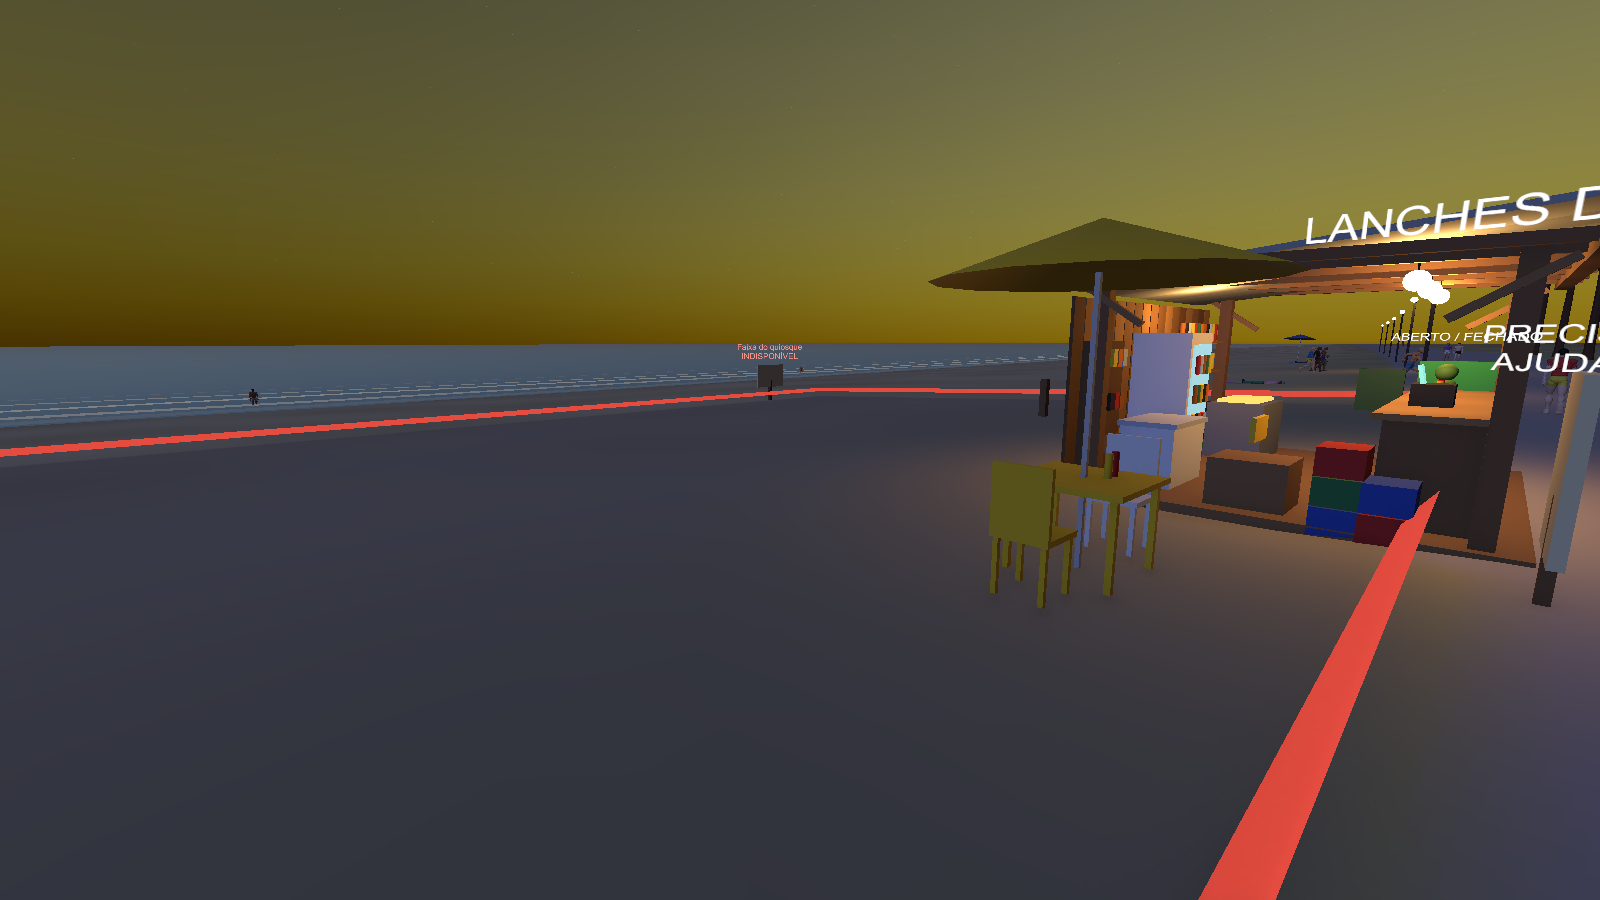
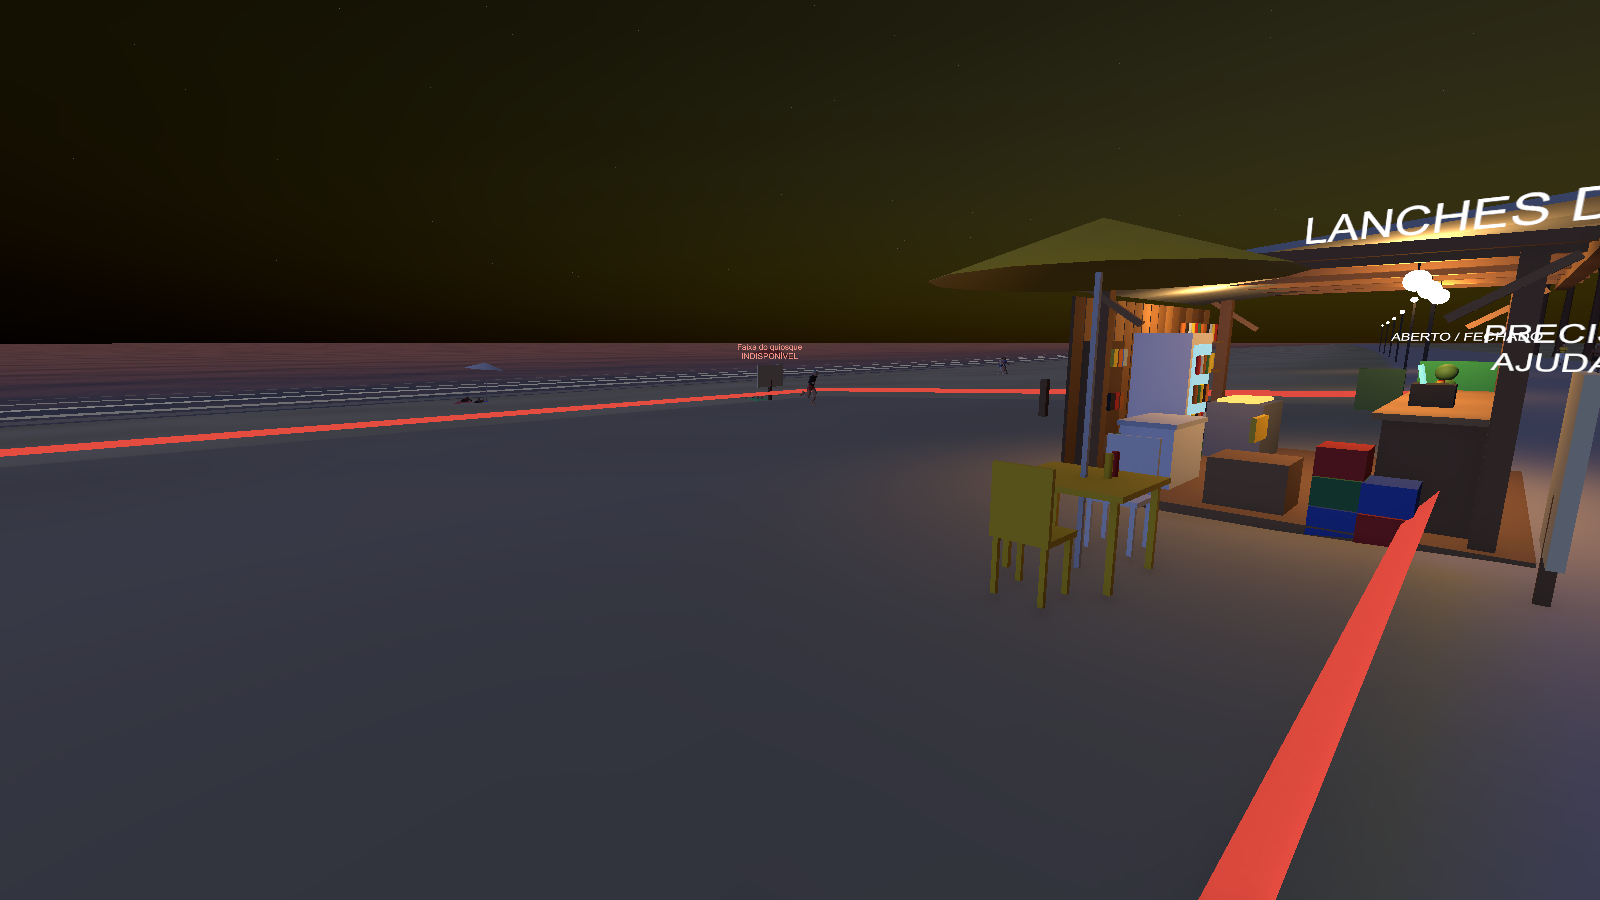
Phase 02: water shader for the sea (depth colour, ripples, Fresnel, glitter) and night sky without the yellow dusk glow

diff --git a/FacilityOps/Assets/_Game/Scripts/Resort/Site/ResortSite.cs b/FacilityOps/Assets/_Game/Scripts/Resort/Site/ResortSite.cs
@@ -236,18 +236,58 @@ namespace ResortAurora.Site
             return false;
         }
 
+        /// <summary>Seaward distance (m) of each row of the water surface from the local waterline; the first row hides under the beach.</summary>
+        static readonly float[] SeaRows = { -30f, 0f, 3f, 8f, 16f, 30f, 55f, 95f, 160f, 260f, 420f, 700f, 1100f, 1500f };
+
         GameObject BuildSea()
         {
-            var go = GameObject.CreatePrimitive(PrimitiveType.Plane);
-            go.name = "Sea";
-            Destroy(go.GetComponent<Collider>());
-            go.transform.localScale = new Vector3((Data.size.x + 1200f) / 10f, 1f, 90f);                 // open sea from 550 m seaward of the site to 350 m inland (the terrain hides the rest; the waterline wanders with the bays)
-            go.transform.localPosition = new Vector3(Data.size.x * 0.5f, Data.seaLevel, -100f);
-            var m = new Material(Shader.Find("Universal Render Pipeline/Lit")) { name = "BairroSea" };
-            m.SetColor("_BaseColor", new Color(0.05f, 0.35f, 0.45f, 1f));
-            m.SetFloat("_Smoothness", 0.92f);
-            go.GetComponent<MeshRenderer>().sharedMaterial = m;
-            return go;
+            var root = new GameObject("Sea");
+            // fallback sheet (flat, deep colour) under the real surface, so a lagoon or a bay that the waterline scan skips never shows the void
+            var plane = GameObject.CreatePrimitive(PrimitiveType.Plane);
+            plane.name = "SeaBase"; plane.transform.SetParent(root.transform, false);
+            Destroy(plane.GetComponent<Collider>());
+            plane.transform.localScale = new Vector3((Data.size.x + 3200f) / 10f, 1f, 90f);
+            plane.transform.localPosition = new Vector3(Data.size.x * 0.5f, Data.seaLevel - 0.06f, -100f);
+            var baseMat = new Material(Shader.Find("Universal Render Pipeline/Lit")) { name = "BairroSeaBase" };
+            baseMat.SetColor("_BaseColor", new Color(0.03f, 0.22f, 0.32f, 1f));
+            baseMat.SetFloat("_Smoothness", 0.5f);
+            plane.GetComponent<MeshRenderer>().sharedMaterial = baseMat;
+
+            // the surface: columns along the coast, rows by distance from the waterline (colour = shallowness and opacity per vertex)
+            var shader = Shader.Find("ResortAurora/Sea");
+            if (shader == null) return root;
+            const float colStep = 8f;
+            float x0 = -1500f, x1 = Data.size.x + 1500f;
+            int cols = Mathf.CeilToInt((x1 - x0) / colStep) + 1, rows = SeaRows.Length;
+            var verts = new Vector3[cols * rows]; var colors = new Color[cols * rows]; var tris = new int[(cols - 1) * (rows - 1) * 6];
+            float y = Data.seaLevel;
+            for (int i = 0; i < cols; i++)
+            {
+                float x = x0 + i * colStep, shore = WaterlineZ(Mathf.Clamp(x, 0f, Data.size.x));
+                for (int r = 0; r < rows; r++)
+                {
+                    float d = SeaRows[r];
+                    verts[i * rows + r] = new Vector3(x, y, shore - d);
+                    float shallow = 1f - Mathf.SmoothStep(0f, 1f, Mathf.Clamp01(d / 130f));
+                    float opacity = Mathf.Lerp(0.5f, 1f, Mathf.SmoothStep(0f, 1f, Mathf.Clamp01(d / 22f)));
+                    colors[i * rows + r] = new Color(shallow, opacity, 0f, 1f);
+                }
+            }
+            int k = 0;
+            for (int i = 0; i < cols - 1; i++)
+                for (int r = 0; r < rows - 1; r++)
+                {
+                    int a = i * rows + r, b = a + 1, c = a + rows, e = c + 1;                  // winding is irrelevant: the shader is double-sided
+                    tris[k++] = a; tris[k++] = b; tris[k++] = c; tris[k++] = c; tris[k++] = b; tris[k++] = e;
+                }
+            var mesh = new Mesh { name = "SeaSurface", indexFormat = UnityEngine.Rendering.IndexFormat.UInt32 };
+            mesh.vertices = verts; mesh.colors = colors; mesh.triangles = tris; mesh.RecalculateBounds();
+            var surface = new GameObject("SeaSurface"); surface.transform.SetParent(root.transform, false);
+            surface.AddComponent<MeshFilter>().sharedMesh = mesh;
+            var mr = surface.AddComponent<MeshRenderer>();
+            mr.sharedMaterial = new Material(shader) { name = "BairroSea" };
+            mr.shadowCastingMode = UnityEngine.Rendering.ShadowCastingMode.Off; mr.receiveShadows = false;
+            return root;
         }
 
         // ---------------------------------------------------------------- vila (prototype massing, placed on real lot data)

diff --git a/FacilityOps/Assets/_Game/Scripts/Resort/Game/DayNightCycle.cs b/FacilityOps/Assets/_Game/Scripts/Resort/Game/DayNightCycle.cs
@@ -151,11 +151,12 @@ namespace ResortAurora.Game
             float az = 90f - 180f * t;
             if (sun != null)
             {
-                sun.transform.rotation = Quaternion.Euler(Mathf.Max(elev, 1f), az + 180f, 0f);
+                // below the horizon the light is already off (vis), and the procedural sky needs the real direction or it keeps a yellow dusk glow all night
+                sun.transform.rotation = Quaternion.Euler(elev, az + 180f, 0f);
                 sun.color = Color.Lerp(new Color(1f, 0.96f, 0.88f), new Color(1f, 0.58f, 0.32f), golden * golden);
                 float vis = Mathf.Clamp01((elev + 3f) / 10f);
                 sun.intensity = Mathf.Lerp(1.2f, 0.55f, golden) * vis;
-                sun.shadows = night < 0.85f ? LightShadows.Soft : LightShadows.None;
+                sun.shadows = night < 0.85f && elev > 1f ? LightShadows.Soft : LightShadows.None;
                 sun.enabled = vis > 0.001f;
             }
             // moon: rises in the east after sunset and climbs

diff --git a/Docs/PROJECT_RESORT_EXECUTION/CLAUDE_CURRENT_TASK.md b/Docs/PROJECT_RESORT_EXECUTION/CLAUDE_CURRENT_TASK.md
@@ -1,6 +1,6 @@
 # PROJECT RESORT — Tarefa Atual do Claude
 
-Atualizado em 2026-10-06 (fim da rodada 2 de refinamentos seguros da Fase 02).
+Atualizado em 2026-10-06 (fim da rodada 3 de refinamentos seguros da Fase 02).
 
 ## Fase atual
 
@@ -18,19 +18,20 @@ A Fase 03 NÃO está liberada.
 - Desempenho (render em lote, sem IMGUI): ~2,8 ms/quadro com a multidão; estágio 7 ~2,9 ms.
 - Capturas reais: `ArtSource/Blender/World/Reviews/F02/` e `Desktop\Capturas PROJECT RESORT\01_Unity_Reais\F02_praia_viva_dia_noite\`.
 - Rodada 2 (feita): clientes sentam nas mesas do deck do quiosque do estágio 2 (10 cadeiras, rota própria, altura do deck); HUD com faixa de "próximo passo" + estoque baixo + ABERTO/FECHADO + vendas do dia; guarda de balanceamento do primeiro dia. Captura: `f02_7_estagio2_clientes_no_deck.png`.
-- Relatório: `RELATORIO_02_VERTICAL_SLICE_QUIOSQUE.md` (adendos 1 e 2 de 2026-10-06).
+- Rodada 3 (feita): mar com shader próprio (`Resources/ResortSea.shader`: cor por profundidade, ondulação, Fresnel, brilho) e malha que segue a linha d'água; céu noturno sem o brilho amarelo (o sol agora desce abaixo do horizonte). 20/20 testes, sem regressão de desempenho (2,8 ms).
+- Relatório: `RELATORIO_02_VERTICAL_SLICE_QUIOSQUE.md` (adendos 1, 2 e 3 de 2026-10-06).
 
 ## Pendente (nada disso se resolve só com código)
 
 1. **HUMAN_GATE_PENDING**: uma pessoa precisa jogar dois dias e avaliar ritmo, clareza do HUD, diversão e a "vida" da praia; ouvir o áudio; olhar as capturas.
-2. Gate visual segue aberto: personagens/quiosque/guarda-sóis ainda são blockout; mar sem shader de água; noite sem contraste de arte.
+2. Gate visual segue aberto: personagens/quiosque/guarda-sóis ainda são blockout; mar com shader simples (sem refração/reflexo de objetos); noite com céu preto e estrelas.
 
 ## Trabalho seguro dentro da Fase 02 (se a rodada continuar antes do gate humano)
 
 - ~~Clientes sentarem nas mesas no estágio 2~~ (feito). ~~HUD de próximo passo~~ (feito; falta olhar humano).
 - Corrigir no Blender (`Tools/Blender/sa_stages.py::kiosk`) a mesa oeste a 7 m que cai dentro do bloco de banheiros e então reativar essa mesa em `StallLayout.AddKioskSeats` (exige o `.blend` base e regenerar/re-exportar o FBX do estágio 2).
 - Sentar/deitar/nadar ainda são procedurais: avaliar clipes gratuitos (Human Crafting Animations FREE, Creative Characters FREE) e o aspecto dos corpos animados; se os manequins ainda parecerem artificiais de perto, o Diretor deve apresentar 1–3 opções pagas ao usuário antes de comprar qualquer coisa.
-- Refinar o rig/roupas dos NPCs e o shader/cor do mar; mais variedade de atividades na areia.
+- Refinar o rig/roupas dos NPCs; mar sem espuma de profundidade/reflexos de objetos e céu noturno preto sem gradiente (cosmético); mais variedade de atividades na areia.
 - Equilíbrio fino da fila/spawn só com dados de jogada humana (curva atual: 6–8h quase sem clientes; o teste `FirstDayDemandIsWorthPlayingAndProfitable` protege a faixa).
 
 ## Próxima ação concreta

diff --git a/Docs/PROJECT_RESORT_EXECUTION/RELATORIO_02_VERTICAL_SLICE_QUIOSQUE.md b/Docs/PROJECT_RESORT_EXECUTION/RELATORIO_02_VERTICAL_SLICE_QUIOSQUE.md
@@ -95,3 +95,25 @@ Depois abrir `ResortPrologue` e jogar: olhar o calçadão às 12h, 18h20 e 20h30
 - O HUD é IMGUI provisório e **não foi visto por uma pessoa**; os textos do HUD não aparecem nas capturas de câmera (IMGUI não vai para `Camera.Render`).
 - Sentar continua pose procedural (sem clipes de cadeira nos pacotes gratuitos avaliados).
 - A mesa oeste a 7 m do modelo do quiosque atravessa o bloco de banheiros (modelagem).
+
+
+---
+
+# Adendo 3 — shader do mar e céu noturno (2026-10-06, rodada 3)
+
+**Status: COMPILADO, TESTADO (20/20 PlayMode, modo gráfico, sem erros de shader/compilação no log) e CAPTURADO. Gate técnico segue PASS. `HUMAN_GATE_PENDING` continua; a Fase 03 NÃO está liberada.**
+
+## O que mudou
+- **Mar com shader próprio** (`Resources/ResortSea.shader`, `ResortAurora/Sea`, URP/HLSL): cor por profundidade (turquesa raso -> azul profundo, vertex color), transparência no raso (areia molhada aparece), ondulações analíticas em duas escalas (marola longa + chop que some com a distância), reflexo de Fresnel do céu (usa o ambiente/fog que o `DayNightCycle` já controla, então o mar acompanha o relógio sem C# por quadro) e brilho de sol/lua. Antes era um plano `Lit` liso que refletia o céu e parecia um bloco ciano lavado.
+- **Malha do mar** (`ResortSite.BuildSea`): colunas a cada 8 m ao longo da costa e 14 fileiras por distância da linha d'água (a primeira escondida sob a praia; até 1,5 km mar adentro, dentro do far clip de 1500 m). Um plano escuro fica 6 cm abaixo como rede de segurança (lagoas/baías que o scan da linha d'água ignora).
+- **Céu noturno**: o sol era preso a >= 1 grau acima do horizonte, e o skybox procedural seguia essa direção, deixando um brilho oliva/amarelo a noite toda. Agora o sol desce de verdade abaixo do horizonte (a luz já era desligada por `vis`; sombras só com sol > 1 grau). Resultado: noite com estrelas sobre céu escuro, quiosque e lâmpadas legíveis (luminância média das capturas noturnas 0,11–0,18).
+
+## Evidência
+- `Run-UnityResortTests.ps1 -Graphics` -> `TESTS total=20 passed=20 failed=0` (4 execuções nesta rodada; a última com o código final). 0 ocorrências de `error CS` / `Shader error` no log.
+- Desempenho (render em lote, sem IMGUI): praia ao meio-dia 2,8 ms médio (p95 3,2 ms, pior 3,5 ms, 63 pessoas); estágio 1 2,6–2,7 ms; estágio 7 2,3–3,0 ms. Sem regressão.
+- Capturas reais regeneradas: `ArtSource/Blender/World/Reviews/F02/f02_{1_dia,2_tarde_dourada,3_por_do_sol,4_noite}_*.png` (mar novo visível em `*_praia_para_o_mar` e `*_aerea`).
+
+## Limitações
+- O mar ainda não tem espuma de profundidade, refração real nem reflexo de objetos (planar/SSR); o brilho da lua é fraco nas capturas testadas.
+- O céu noturno é preto com estrelas (sem gradiente azul); o crepúsculo ainda é um oliva sujo do skybox procedural.
+- Nada disso foi visto por uma pessoa: o gate visual e o humano continuam abertos.
